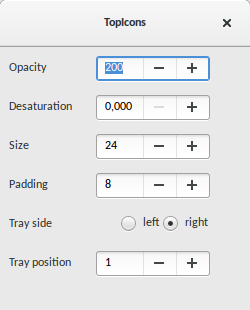
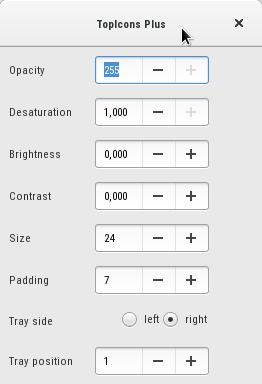
minor updates

diff --git a/extension.js b/extension.js
@@ -36,14 +36,13 @@ let trayRemovedId = 0;
 let icons = [];
 let iconsBoxLayout = null;
 
-function init() {
-    settings = Convenience.getSettings();
-}
+function init() { }
 
 function enable() {
     GLib.idle_add(GLib.PRIORITY_LOW, moveToTop);
     tray = Main.legacyTray;
     trayIconImplementations = imports.ui.legacyTray.STANDARD_TRAY_ICON_IMPLEMENTATIONS;
+    settings = Convenience.getSettings();
     settings.connect('changed::icon-opacity', Lang.bind(this, refreshOpacity));
     settings.connect('changed::icon-saturation', Lang.bind(this, refreshSaturation));
     settings.connect('changed::icon-brightness', Lang.bind(this, refreshBrightnessContrast));
@@ -75,24 +74,20 @@ function onTrayIconAdded(o, icon, role, delay) {
     icon.reactive = true;
     let trayPosition = settings.get_string('tray-pos');
     let trayOrder = settings.get_int('tray-order');
-
     let scaleFactor = St.ThemeContext.get_for_stage(global.stage).scale_factor;
     icon.set_size(icon.size * scaleFactor, icon.size * scaleFactor);
 
+    // Container
     let iconContainer = new St.Button({child: icon, visible: false, width: icon.size*scaleFactor, height: icon.size*scaleFactor});
     applyPadding(iconContainer);
-
     icon.connect("destroy", function() {
         icon.clear_effects();
         iconContainer.destroy();
     });
-
     iconContainer.connect('button-release-event', function(actor, event) {
         icon.click(event);
     });
-
     applyPreferences(icon, scaleFactor); // user settings
-    
     iconsBoxLayout.insert_child_at_index(iconContainer, 0);
 
     // Display icons (with a blacklist filter for specific extension like Skype integration)
@@ -124,7 +119,6 @@ function onTrayIconRemoved(o, icon) {
     let parent = icon.get_parent();
     parent.destroy();
     icon.destroy();
-
     icons.splice(icons.indexOf(icon), 1);
 }
 
@@ -180,11 +174,9 @@ function moveToTray() {
         let icon = icons[i];
         icon.opacity = 255;
         icon.clear_effects();
-
         let parent = icon.get_parent();
         parent.remove_actor(icon);
         parent.destroy();
-
         tray._onTrayIconAdded(tray, icon);
     }
     icons = [];

diff --git a/README.md b/README.md
@@ -1,12 +1,32 @@
 # TopIcons Plus
 
-![Screenshot 1](https://raw.githubusercontent.com/phocean/TopIcons/master/screenshots/screenshot.png)
+## Introduction
 
-![Screenshot 2](https://raw.githubusercontent.com/phocean/TopIcons/master/screenshots/screenshot_2.png)
+![Tray](https://raw.githubusercontent.com/phocean/TopIcons/master/screenshots/screenshot.png)
 
-An alternative to GNOME Shell's Legacy Tray, making use of the top panel.
+Topicons Plus is an alternative to the Gnome Shell Legacy Tray, which is hidden most of the time and generally considered inconvenient.
 
-I had a few issues with the original TopIcons extension: it froze when changing the screen geometry, like enable an external monitor. Also, I found a few forks like TopTray with some good ideas, like settings for icon size and colors. So I simply merged them all in a better extension.
+It brings all icons to back to the top panel, as with most desktop environments.
+
+There were an original TopIcons extension for that, but it stopped being maintained and it had a few issues and little configuration options.
+Thus, this fork.
+
+Before (standard Gnome legacy tray):
+
+![Before](https://raw.githubusercontent.com/phocean/TopIcons/master/screenshots/before.png)
+
+After (slight opacity tweaking):
+
+![After (1)](https://raw.githubusercontent.com/phocean/TopIcons/master/screenshots/after_1.png)
+
+
+After (saturation tweaking):
+
+![After (2)](https://raw.githubusercontent.com/phocean/TopIcons/master/screenshots/after_2.png)
+
+
+Enjoy it!
+
 
 ## Installation
 
